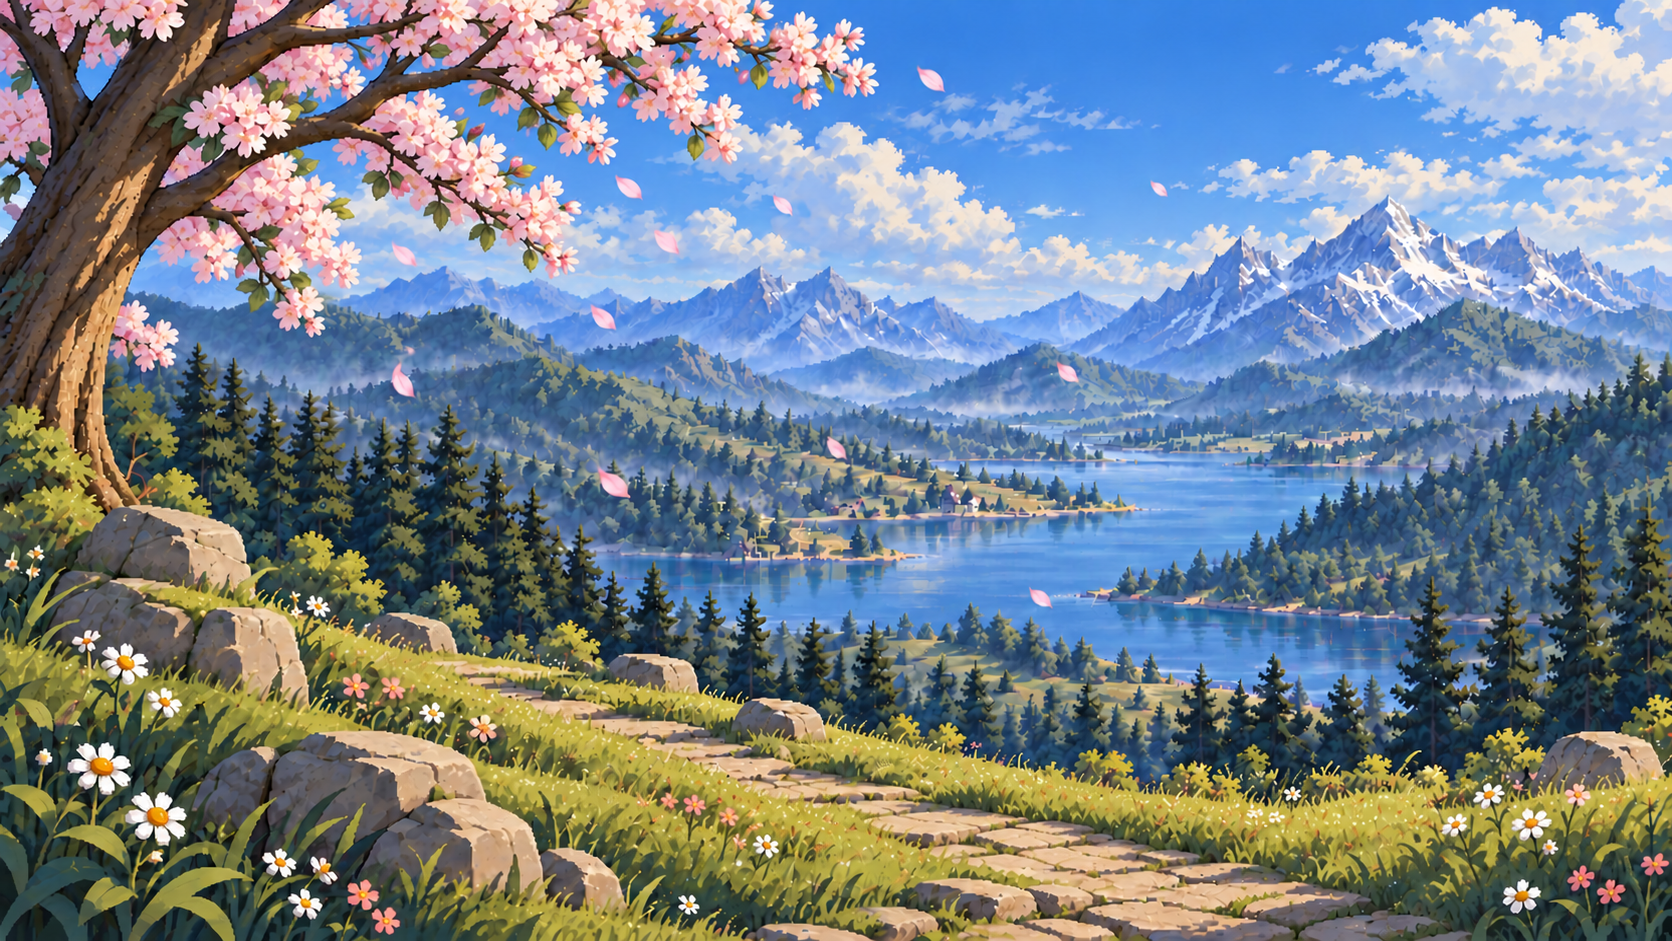
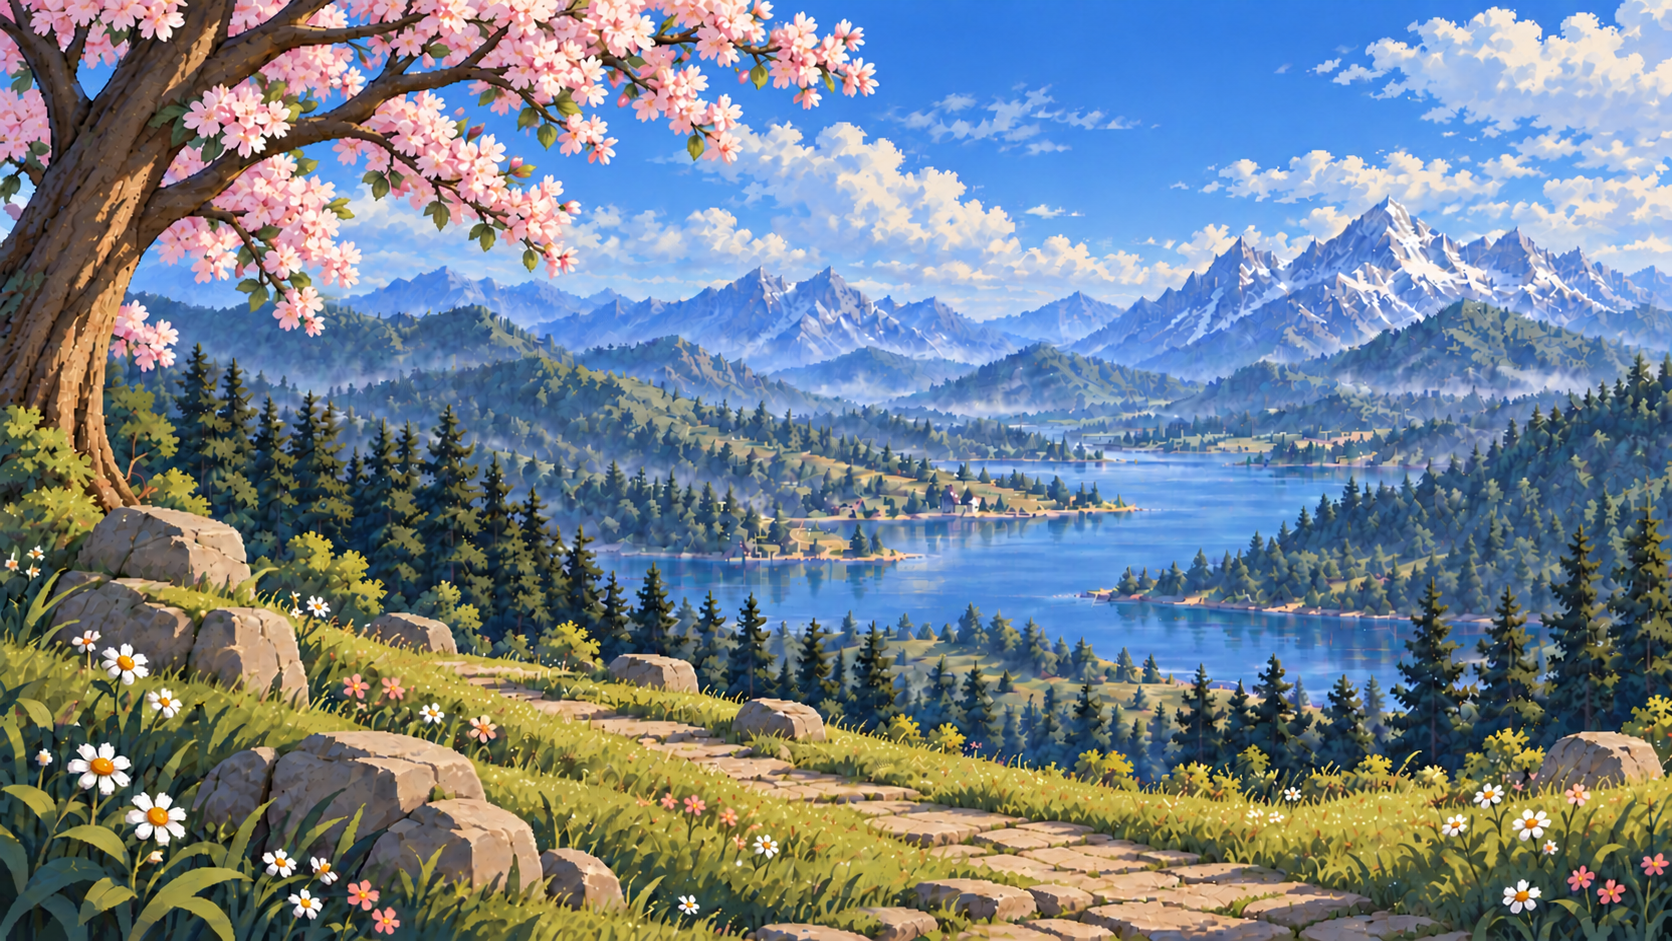
ホーム画面と画面遷移時のフェード

diff --git a/src/Scene/HomeScene.ts b/src/Scene/HomeScene.ts
@@ -1,3 +1,4 @@
+import { createSceneFade } from '../utils/ui/scene-fade'
 import Phaser from 'phaser'
 
 // アセットのインポート（実際のファイルパスに合わせて調整してください）
@@ -10,6 +11,7 @@ import { loadCharacterAnimation, createCharacterSprite } from '../animation/anim
 import { homeAnimationData, homeAttackCombos, homeAnimationNames, homeClickActions, type HomeAttackName } from '../animation/homeAnimationData'
 
 import { createButton } from './HomeScene/buttons'
+import { preloadTitlePetals, createTitlePetals } from './title/TitlePetals'
 //debug機能
 import { showDebugSceneName } from '../debug';
 
@@ -18,6 +20,7 @@ import { showDebugSceneName } from '../debug';
 
 
 export class HomeScene extends Phaser.Scene {
+  private navigate!: (destination: string) => void
   private readonly backgroundKeys = ['bg1', 'bg2', 'bg3', 'bg4']
 
   constructor() {
@@ -25,6 +28,7 @@ export class HomeScene extends Phaser.Scene {
   }
 
   preload(): void {
+    preloadTitlePetals(this)
     // 背景画像（表示順に4種類）
     this.load.image('bg1', bg1Img)
     this.load.image('bg2', bg2Img)
@@ -41,6 +45,8 @@ export class HomeScene extends Phaser.Scene {
   }
 
   create(): void {
+    this.input.enabled = true
+    this.navigate = createSceneFade(this)
     showDebugSceneName(this);
 
     const width = this.scale.width
@@ -55,6 +61,9 @@ export class HomeScene extends Phaser.Scene {
     // 背景画像を追加して画面サイズに合わせる
     const bg = this.add.image(width / 2, height / 2, bgKey)
     bg.setDisplaySize(width, height)
+
+    // タイトルと同じ花びらを、背景の上・主人公とボタンの後ろに表示する。
+    createTitlePetals(this, { night: bgKey === 'bg4' })
 
     // 次回戻ってきたとき用にインデックスを更新
     this.registry.set('bgIndex', (bgIndex + 1) % this.backgroundKeys.length)
@@ -215,35 +224,38 @@ export class HomeScene extends Phaser.Scene {
   private createNavigationButtons(ui: Phaser.GameObjects.Container, scaleX: number, scaleY: number): void {
 
     ui.add(createButton(this,1080 * scaleX,450 * scaleY,220,'エリア\n選択',() => {
-        this.scene.start('AreaSelectScene')},{  key: 'button1',  width: 260,  height: 110
+        this.navigate('AreaSelectScene')},{  key: 'button1',  width: 260,  height: 110
 
         }
     ))
     ui.add(createButton(this, 510 * scaleX, 630 * scaleY, 200, '育成',() => {
-        this.scene.start('TrainingScene')},{  key: 'button1',  width: 200,  height: 100
+        this.navigate('TrainingScene')},{  key: 'button1',  width: 200,  height: 100
 
         }
     ))
     ui.add(createButton(this, 740 * scaleX, 630 * scaleY, 200, '編成',() => {
-        this.scene.start('FormScene')},{  key: 'button1',  width: 200,  height: 100
+        this.navigate('FormScene')},{  key: 'button1',  width: 200,  height: 100
 
         }
     ))
     ui.add(createButton(this, 970 * scaleX, 630 * scaleY, 200, '図鑑',() => {
-        this.scene.start('EncyclopediaScene')},{  key: 'button1',  width: 200,  height: 100
+        this.navigate('EncyclopediaScene')},{  key: 'button1',  width: 200,  height: 100
 
         }
     ))
 
     ui.add(createButton(this, 1200 * scaleX, 630 * scaleY, 200, 'ショップ',() => {
-        this.scene.start('ShopScene')},{  key: 'button1',  width: 200,  height: 100
+        this.navigate('ShopScene')},{  key: 'button1',  width: 200,  height: 100
 
         }
     ))
     ui.add(createButton(this, 1220 * scaleX, 70 * scaleY, 180, '設定',() => {
-        this.scene.start('SettingsScene')},{  key: 'button1',  width: 150,  height: 80
+        this.navigate('SettingsScene')},{  key: 'button1',  width: 150,  height: 80
 
         }
     ))
   }
 }
+
+
+

diff --git a/src/Scene/LoginScene.ts b/src/Scene/LoginScene.ts
@@ -1,3 +1,4 @@
+import { createSceneFade } from '../utils/ui/scene-fade';
 import { getPhpBaseUrl } from '../auth/PhpBaseUrl';
 import Phaser from 'phaser';
 import { mountAuthLayout } from '../auth/AuthLayout';
@@ -19,6 +20,8 @@ export class LoginScene extends Phaser.Scene {
   }
 
   create(): void {
+    this.input.enabled = true;
+    const navigate = createSceneFade(this);
     const formElement = document.createElement('form');
     formElement.className = 'flower-auth-form';
     formElement.innerHTML = `
@@ -39,7 +42,7 @@ export class LoginScene extends Phaser.Scene {
       <button type="submit">ログイン</button>
     `;
 
-    const dom = mountAuthLayout(this, formElement, 'ログイン', 'アカウント作成へ', 'RegisterScene');
+    mountAuthLayout(this, formElement, 'ログイン', 'アカウント作成へ', 'RegisterScene', navigate);
     const message = formElement.querySelector<HTMLParagraphElement>('.register-message');
     const submitButton = formElement.querySelector<HTMLButtonElement>('button[type="submit"]');
     const googleButton = formElement.querySelector<HTMLDivElement>('.google-signin-button');
@@ -51,8 +54,8 @@ export class LoginScene extends Phaser.Scene {
       submitButton.disabled = true;
       submitButton.textContent = 'ログイン成功';
       this.time.delayedCall(700, () => {
-        dom.destroy();
-        this.scene.start('HomeScene');
+
+        navigate('HomeScene');
       });
     };
 
@@ -119,3 +122,5 @@ export class LoginScene extends Phaser.Scene {
     element.classList.toggle('is-success', isSuccess);
   }
 }
+
+

diff --git a/src/Scene/title/TitlePetals.ts b/src/Scene/title/TitlePetals.ts
@@ -6,7 +6,7 @@ import petal4 from '../../assets/ui/title_f4.png';
 
 const PETAL_IMAGES = [petal1, petal2, petal3, petal4];
 // 花びらの枚数。大きさや落下速度はreset内で調整する。
-const PETAL_COUNT = 28;
+const PETAL_COUNT = 32;
 
 export function preloadTitlePetals(scene: Phaser.Scene): void {
   PETAL_IMAGES.forEach((url, index) => {
@@ -15,7 +15,7 @@ export function preloadTitlePetals(scene: Phaser.Scene): void {
   });
 }
 
-export function createTitlePetals(scene: Phaser.Scene): void {
+export function createTitlePetals(scene: Phaser.Scene, options: { night?: boolean } = {}): void {
   // 花びらの低速移動を整数座標に丸めず、小数単位で描画する。
   scene.cameras.main.roundPixels = false;
   const width = scene.scale.width;
@@ -29,6 +29,8 @@ export function createTitlePetals(scene: Phaser.Scene): void {
   const reset = (petal: Petal, initial = false): void => {
     petal.image.setTexture(`title-petal-${Phaser.Math.Between(0, 3)}`);
     petal.image.texture.setFilter(Phaser.Textures.FilterMode.LINEAR);
+    // 夜は月明かりを受けた、明るい青紫寄りのピンクにする。透明度や動きは昼と共通。
+    petal.image.setTint(options.night ? 0xb8bedc : 0xffffff);
     petal.x = Phaser.Math.FloatBetween(-80, width + 60);
     petal.y = initial ? Phaser.Math.FloatBetween(-60, height) : -65;
     petal.phase = Phaser.Math.FloatBetween(0, Math.PI * 2);
@@ -67,6 +69,9 @@ export function createTitlePetals(scene: Phaser.Scene): void {
     petals.forEach(petal => petal.image.destroy());
   });
 }
+
+
+
 
 
 

diff --git a/src/utils/ui/scene-fade.ts b/src/utils/ui/scene-fade.ts
@@ -1,0 +1,32 @@
+import Phaser from 'phaser';
+
+// CanvasとHTMLフォームを同時に覆う。カメラのフェードだけではDOMは暗転しない。
+export function createSceneFade(scene: Phaser.Scene): (destination: string) => void {
+  const overlay = document.createElement('div');
+  overlay.setAttribute('aria-hidden', 'true');
+  overlay.style.cssText = 'position:fixed;inset:0;z-index:10000;background:rgb(15,24,36);opacity:1;pointer-events:auto;';
+  document.body.append(overlay);
+  const state = { alpha: 1 };
+  let leaving = false;
+  let active = true;
+  const update = (): void => { overlay.style.opacity = String(state.alpha); };
+  scene.tweens.add({
+    targets: state, alpha: 0, duration: 280, ease: 'Sine.easeOut', onUpdate: update,
+    onComplete: () => { if (!leaving) overlay.style.pointerEvents = 'none'; },
+  });
+  scene.events.once(Phaser.Scenes.Events.SHUTDOWN, () => {
+    active = false;
+    overlay.remove();
+  });
+  return destination => {
+    if (!active || leaving || !scene.scene.isActive()) return;
+    leaving = true;
+    scene.input.enabled = false;
+    overlay.style.pointerEvents = 'auto';
+    scene.tweens.killTweensOf(state);
+    scene.tweens.add({
+      targets: state, alpha: 1, duration: 240, ease: 'Sine.easeIn', onUpdate: update,
+      onComplete: () => { if (active) scene.scene.start(destination); },
+    });
+  };
+}

diff --git a/src/auth/AuthLayout.ts b/src/auth/AuthLayout.ts
@@ -1,11 +1,12 @@
-import Phaser from 'phaser';
+import Phaser from 'phaser';
 import buttonImage from '../assets/ui/button1.png';
 import backgroundImage from '../assets/images/background/auth-meadow.png';
 import './auth-layout.css';
 
 // Native inputs remain usable with touch keyboards and browser password managers.
 export function mountAuthLayout(
-  scene: Phaser.Scene, form: HTMLFormElement, title: string, link: string, target: string
+  scene: Phaser.Scene, form: HTMLFormElement, title: string, link: string, target: string,
+  onNavigate?: (destination: string) => void
 ): { destroy: () => void } {
   const root = document.createElement('section');
   root.className = 'flower-auth-screen';
@@ -59,7 +60,7 @@ export function mountAuthLayout(
     });
     field.append(toggle);
   });
-  const navigate = (destination: string): void => { scene.scene.start(destination); };
+  const navigate = onNavigate ?? ((destination: string): void => { scene.scene.start(destination); });
   const next = document.createElement('button');
   next.type = 'button'; next.className = 'auth-route-link'; next.textContent = `${link} ›`;
   next.addEventListener('click', () => navigate(target));
@@ -76,3 +77,4 @@ export function mountAuthLayout(
   scene.events.once(Phaser.Scenes.Events.SHUTDOWN, destroy);
   return { destroy };
 }
+
